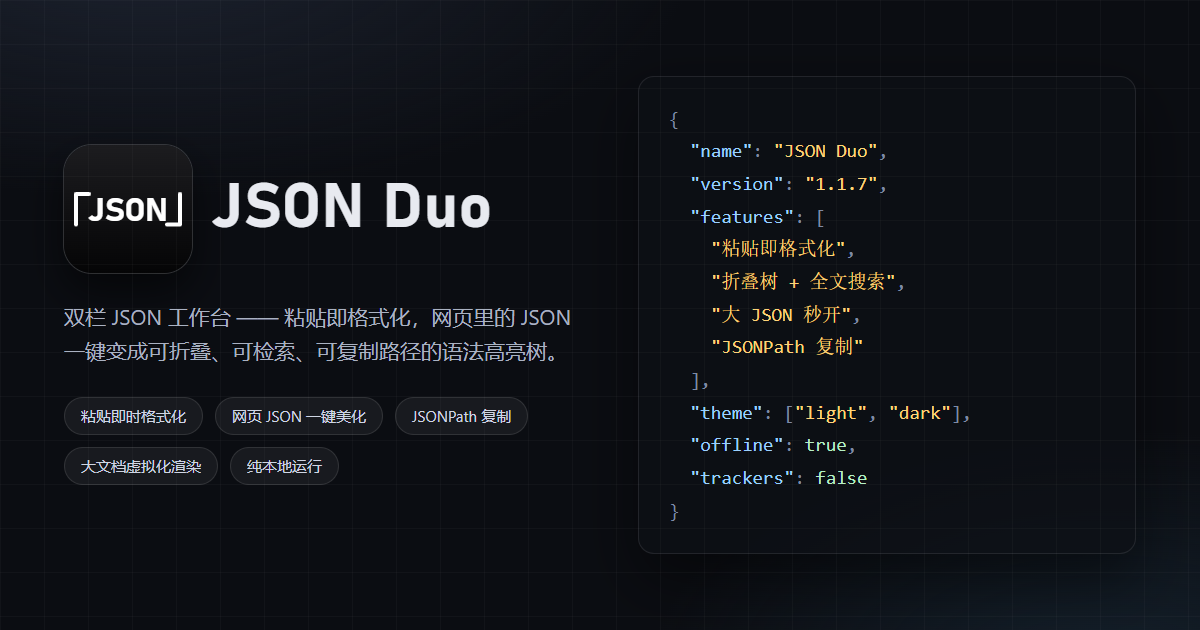
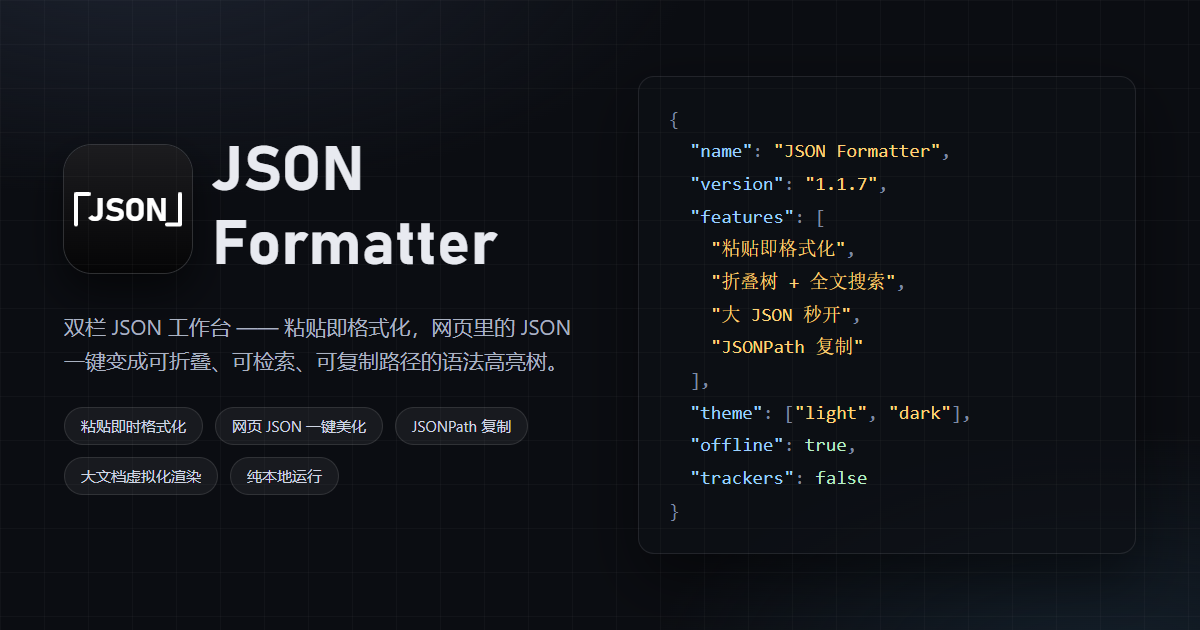
rebrand: 站点品牌更名 JSON Duo -> JSON Formatter（site 三页 + OG 卡片源与图）

diff --git a/site/index.html b/site/index.html
@@ -3,10 +3,10 @@
 <head>
   <meta charset="utf-8">
   <meta name="viewport" content="width=device-width, initial-scale=1">
-  <title>JSON Duo · 双栏 JSON 工作台</title>
-  <meta name="description" content="JSON Duo：双栏 JSON 工作台。左栏粘贴原文、右栏实时预览；自动美化网页 JSON，语法高亮、可折叠树、路径复制、转义保留/还原、浅色与深色主题、一键复制或下载。">
+  <title>JSON Formatter · 双栏 JSON 工作台</title>
+  <meta name="description" content="JSON Formatter：双栏 JSON 工作台。左栏粘贴原文、右栏实时预览；自动美化网页 JSON，语法高亮、可折叠树、路径复制、转义保留/还原、浅色与深色主题、一键复制或下载。">
   <link rel="icon" href="favicon.png?v=db88724c" type="image/png">
-  <meta property="og:title" content="JSON Duo · 双栏 JSON 工作台">
+  <meta property="og:title" content="JSON Formatter · 双栏 JSON 工作台">
   <meta property="og:description" content="粘贴即格式化：语法高亮、可折叠树、JSONPath 复制、大文档秒开，纯本地运行。">
   <meta property="og:image" content="https://lr3699.github.io/json-formatter-pro/og-image.png">
   <meta property="og:type" content="website">
@@ -17,7 +17,7 @@
     <div class="wrap">
       <a class="brand" href="index.html">
         <img class="brand-icon" src="favicon.png?v=db88724c" alt="" width="24" height="24">
-        <span>JSON Duo</span>
+        <span>JSON Formatter</span>
       </a>
       <nav>
         <a href="index.html">功能介绍</a>
@@ -132,7 +132,7 @@
 
   <footer class="bot">
     <div class="wrap">
-      <span>JSON Duo · 双栏 JSON 工作台</span>
+      <span>JSON Formatter · 双栏 JSON 工作台</span>
       <span><a href="privacy.html">隐私政策</a></span>
     </div>
   </footer>

diff --git a/site/app.html b/site/app.html
@@ -3,12 +3,12 @@
 <head>
   <meta charset="utf-8">
   <meta name="viewport" content="width=device-width, initial-scale=1">
-  <title>在线 JSON 格式化 · JSON Duo</title>
+  <title>在线 JSON 格式化 · JSON Formatter</title>
   <meta name="description" content="免费在线 JSON 格式化工具：左边粘贴、右边实时渲染成可折叠的语法高亮树。支持搜索、JSONPath 复制、转义保留/还原、深浅主题、大整数精度不丢失，全程在本地浏览器完成，不上传任何数据。">
   <meta name="keywords" content="JSON 格式化,JSON 在线格式化,JSON 美化,JSON 查看器,JSON 校验,JSON formatter,JSON viewer,JSON pretty print">
   <link rel="canonical" href="https://lr3699.github.io/json-formatter-pro/app.html">
   <meta property="og:type" content="website">
-  <meta property="og:title" content="在线 JSON 格式化 · JSON Duo">
+  <meta property="og:title" content="在线 JSON 格式化 · JSON Formatter">
   <meta property="og:description" content="双栏 JSON 工作台：左栏粘贴原文、右栏实时预览，可折叠树、搜索、JSONPath 复制，纯本地运行。">
   <meta property="og:image" content="https://lr3699.github.io/json-formatter-pro/og-image.png">
   <meta name="twitter:card" content="summary_large_image">
@@ -27,7 +27,7 @@
     <div class="brand">
       <img class="brand-mark" src="favicon.png?v=db88724c" alt="" width="32" height="32">
       <span class="brand-text">
-        <b>JSON Duo</b>
+        <b>JSON Formatter</b>
         <em>粘贴即格式化 · 在线免安装</em>
       </span>
     </div>

diff --git a/site/privacy.html b/site/privacy.html
@@ -3,7 +3,7 @@
 <head>
   <meta charset="utf-8">
   <meta name="viewport" content="width=device-width, initial-scale=1">
-  <title>隐私政策 · JSON Duo</title>
+  <title>隐私政策 · JSON Formatter</title>
   <link rel="icon" href="favicon.png?v=db88724c" type="image/png">
   <link rel="stylesheet" href="style.css?v=db88724c">
 </head>
@@ -16,7 +16,7 @@
           <path d="M10 3.5H8.2A2.2 2.2 0 0 0 6 5.7v2.6A2.2 2.2 0 0 1 3.8 10.5 2.2 2.2 0 0 1 6 12.7v2.6A2.2 2.2 0 0 0 8.2 17.5H10"/>
           <path d="M14 3.5h1.8A2.2 2.2 0 0 1 18 5.7v2.6a2.2 2.2 0 0 0 2.2 2.2A2.2 2.2 0 0 0 18 12.7v2.6a2.2 2.2 0 0 1-2.2 2.2H14"/>
         </svg>
-        <span>JSON Duo</span>
+        <span>JSON Formatter</span>
       </a>
       <nav>
         <a href="index.html">功能介绍</a>
@@ -27,7 +27,7 @@
 
   <main class="wrap doc">
     <h1>隐私政策</h1>
-    <p class="meta">适用于浏览器扩展「JSON Duo」（Microsoft Edge 加载项与 Chrome 网上应用店同名版本均适用） · 最后更新：2026-09-20</p>
+    <p class="meta">适用于浏览器扩展「JSON Formatter」（Microsoft Edge 加载项与 Chrome 网上应用店同名版本均适用） · 最后更新：2026-09-20</p>
 
     <div class="callout">
       <strong>一句话总结：</strong>本扩展不采集、不存储、不传输任何用户数据。
@@ -113,7 +113,7 @@
 
   <footer class="bot">
     <div class="wrap">
-      <span>JSON Duo · 双栏 JSON 工作台</span>
+      <span>JSON Formatter · 双栏 JSON 工作台</span>
       <span><a href="index.html">功能介绍</a></span>
     </div>
   </footer>

diff --git a/docs/icon-redesign/og-image.html b/docs/icon-redesign/og-image.html
@@ -2,7 +2,7 @@
 <html lang="zh-CN">
 <head>
 <meta charset="utf-8">
-<title>JSON Duo · 社交分享卡（1200×630）</title>
+<title>JSON Formatter · 社交分享卡（1200×630）</title>
 <style>
   /* 出图尺寸固定 1200×630；用 tools/make-og-image.py 截图 */
   * { margin: 0; padding: 0; box-sizing: border-box; }
@@ -75,8 +75,8 @@
 <body>
   <div class="left">
     <div class="brand">
-      <img src="../../icons/icon128.png" alt="JSON Duo">
-      <h1>JSON Duo</h1>
+      <img src="../../icons/icon128.png" alt="JSON Formatter">
+      <h1>JSON Formatter</h1>
     </div>
     <p class="lede">双栏 JSON 工作台 —— 粘贴即格式化，网页里的 JSON 一键变成可折叠、可检索、可复制路径的语法高亮树。</p>
     <div class="chips">
@@ -89,7 +89,7 @@
   </div>
 
   <div class="code"><span class="p">{</span>
-  <span class="k">"name"</span><span class="p">:</span> <span class="s">"JSON Duo"</span><span class="p">,</span>
+  <span class="k">"name"</span><span class="p">:</span> <span class="s">"JSON Formatter"</span><span class="p">,</span>
   <span class="k">"version"</span><span class="p">:</span> <span class="s">"1.1.7"</span><span class="p">,</span>
   <span class="k">"features"</span><span class="p">: [</span>
     <span class="s">"粘贴即格式化"</span><span class="p">,</span>
